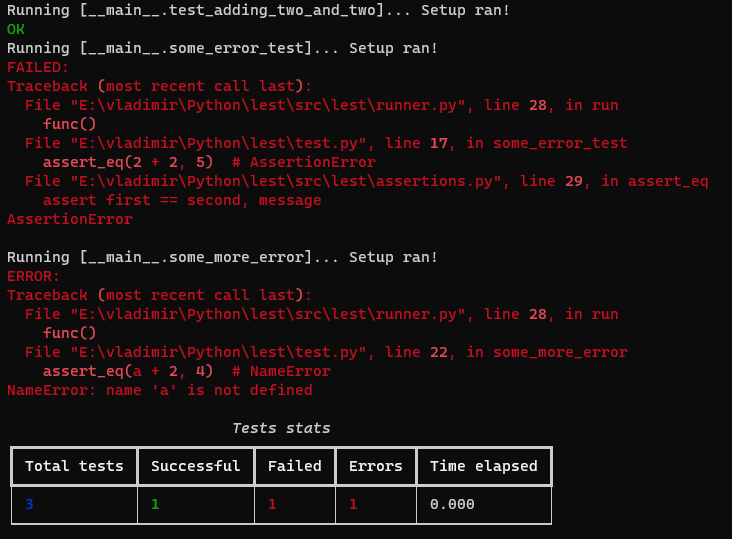
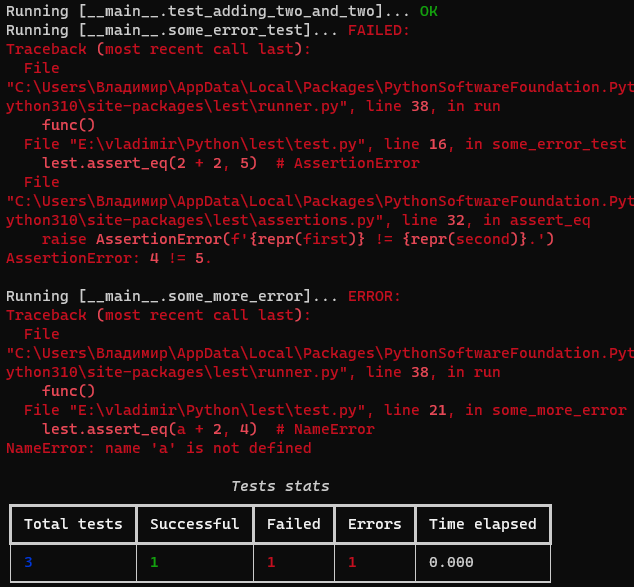
change example code in README and update print-screen

Changed region(s): [[0.0, 0.0, 1.0, 1.0]]

diff --git a/README.md b/README.md
@@ -13,31 +13,30 @@ See [installing](https://github.com/wchistow/lest/blob/master/docs/en/installing
 Code:
 
 ```python
-from lest import register, run, setup
-from lest.assertions import assert_eq
+import lest
 
 
-@setup
+@lest.setup
 def my_setup():
     print('Setup ran!')
 
 
-@register
+@lest.register
 def test_adding_two_and_two():
-    assert_eq(2 + 2, 4)
+    lest.assert_eq(2 + 2, 4)
 
 
-@register
+@lest.register
 def some_error_test():
-    assert_eq(2 + 2, 5)  # AssertionError
+    lest.assert_eq(2 + 2, 5)  # AssertionError
 
 
-@register
+@lest.register
 def some_more_error():
-    assert_eq(a + 2, 4)  # NameError
+    lest.assert_eq(a + 2, 4)  # NameError
 
 
-run(info_level='max')
+lest.run(info_level='max')
 ```
 
 Output (to visible the highlighting, it's a print-screen):
